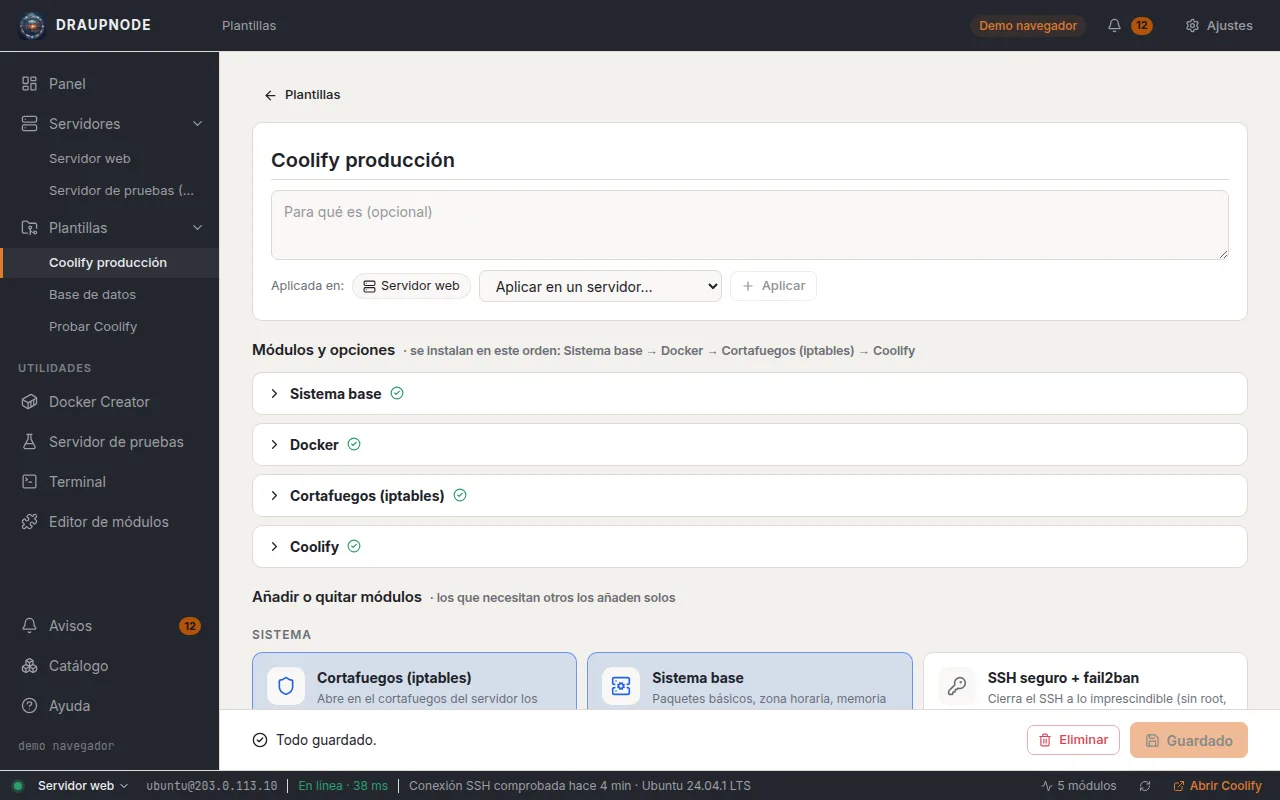
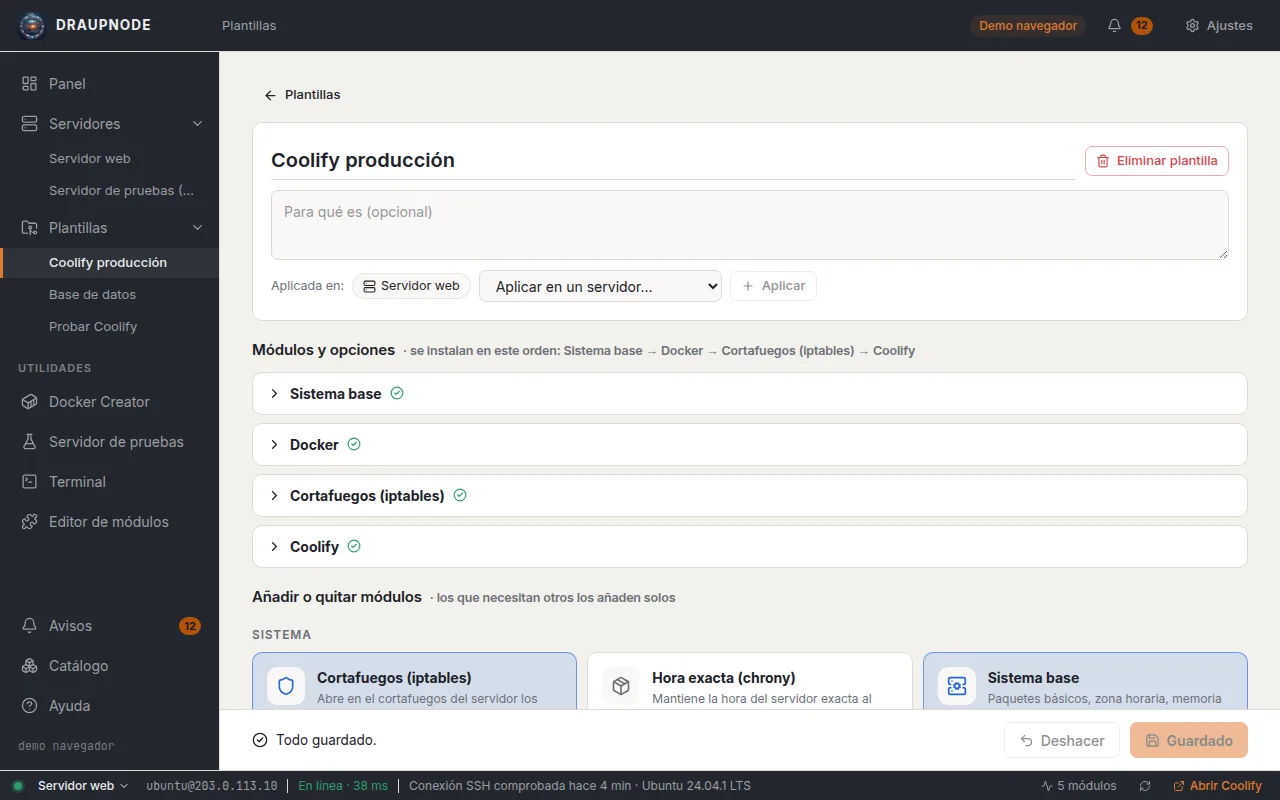
Plantilla: «Eliminar plantilla» junto al nombre y «Deshacer» al lado de Guardar (0.63.1)

Changed region(s): [[0.4375, 0.8125, 1.0, 0.9375], [0.8438, 0.1875, 0.9688, 0.2188]]

diff --git a/frontend/src/views/RecipeEditor.svelte b/frontend/src/views/RecipeEditor.svelte
@@ -4,7 +4,7 @@
   // servidor, no aquí. Al guardar, los servidores que la usan reciben los
   // cambios (sin aplicarlos) y conservan lo suyo.
   import { untrack } from 'svelte'
-  import { ArrowLeft, Save, Trash2, Server as ServerIcon, Plus, TriangleAlert, ChevronDown, ChevronRight, CircleCheck, Sparkles, Check } from '@lucide/svelte'
+  import { ArrowLeft, Save, Trash2, Server as ServerIcon, Plus, TriangleAlert, ChevronDown, ChevronRight, CircleCheck, Sparkles, Check, Undo2 } from '@lucide/svelte'
   import ModuleCard from '../components/ModuleCard.svelte'
   import VarField from '../components/VarField.svelte'
   import { api, errorText, type Module, type ProjectCheck, type Recipe } from '../lib/api'
@@ -16,7 +16,9 @@
   const initial = untrack(() => ui.recipes.find((r) => r.id === id))
   let draft = $state<Recipe>(initial ? JSON.parse(JSON.stringify({ id: initial.id, name: initial.name, notes: initial.notes ?? '', modules: initial.modules })) : { id: '', name: '', notes: '', modules: [] })
   const key = (r: Recipe) => JSON.stringify([r.name.trim(), r.notes ?? '', r.modules])
-  let savedKey = $state(initial ? key(draft) : '')
+  let savedKey = $state(initial ? untrack(() => key(draft)) : '')
+  // Copia de lo último guardado, para «Deshacer».
+  let savedDraft = $state(untrack(() => JSON.stringify(draft)))
   const dirty = $derived(key(draft) !== savedKey)
   let check = $state<ProjectCheck | null>(null)
   let saving = $state(false)
@@ -95,6 +97,7 @@
       draft.id = r.id
       draft.modules = r.modules
       savedKey = key(draft)
+      savedDraft = JSON.stringify($state.snapshot(draft))
       toReview = []
       await refreshProjects()
       if (!id) ui.recipeId = r.id
@@ -106,6 +109,14 @@
     } finally {
       saving = false
     }
+  }
+
+  // Vuelve a lo último guardado (o a la plantilla vacía si aún no se guardó).
+  function undo() {
+    draft = JSON.parse(savedDraft)
+    toReview = []
+    open = {}
+    toast('Cambios deshechos: la plantilla está como la guardaste')
   }
 
   async function remove() {
@@ -142,7 +153,10 @@
 </div>
 
 <div class="top card">
-  <input class="name" bind:value={draft.name} placeholder="Nombre de la plantilla (p. ej. Servidor de copias, Mis apps…)" />
+  <div class="name-row">
+    <input class="name" bind:value={draft.name} placeholder="Nombre de la plantilla (p. ej. Servidor de copias, Mis apps…)" />
+    {#if draft.id}<button class="btn sm danger" onclick={remove} title="Borra esta plantilla (los servidores en los que se aplicó no cambian)"><Trash2 size={14} /> Eliminar plantilla</button>{/if}
+  </div>
   <textarea class="input notes" rows="2" bind:value={draft.notes} placeholder="Para qué es (opcional)"></textarea>
   {#if draft.id}
     <div class="deps">
@@ -228,7 +242,7 @@
       <CircleCheck size={16} /> <span>Todo guardado.</span>
     {/if}
   </div>
-  {#if draft.id}<button class="btn sm danger" onclick={remove}><Trash2 size={14} /> Eliminar</button>{/if}
+  <button class="btn" onclick={undo} disabled={saving || !dirty} title="Quita lo que no has guardado y deja la plantilla como estaba"><Undo2 size={15} /> Deshacer</button>
   <button class="btn primary" onclick={save} disabled={saving || !dirty || !draft.name.trim() || errorCount > 0}><Save size={15} /> {saving ? 'Guardando…' : dirty || !draft.id ? 'Guardar' : 'Guardado'}</button>
 </div>
 
@@ -247,6 +261,8 @@
   @media (max-width: 900px) { .foot { margin: 24px -16px -32px; padding: 10px 16px; bottom: -32px; flex-wrap: wrap; } }
   .bar { display: flex; align-items: center; gap: 8px; margin-bottom: 12px; }
   .top { display: flex; flex-direction: column; gap: 10px; margin-bottom: 14px; }
+  .name-row { display: flex; gap: 10px; align-items: center; }
+  .name-row .name { flex: 1; min-width: 0; }
   .name { font-size: 20px; font-weight: 600; border: 0; border-bottom: 1px solid var(--border); background: none; color: var(--text); padding: 4px 0; outline: none; }
   .name:focus { border-color: var(--accent); }
   .notes { resize: vertical; }

diff --git a/frontend/src/lib/help.ts b/frontend/src/lib/help.ts
@@ -72,8 +72,8 @@ export const HELP: HelpSection[] = [
     intro: 'Una plantilla es un grupo de módulos con sus opciones, sin servidor, para añadirlos de una vez. Al aplicarla a un servidor sus módulos pasan a ser de ese servidor (allí se ve de qué plantilla vino cada uno) y se instalan cuando pulsas Aplicar. Editar una plantilla no cambia los servidores en los que ya se aplicó.',
     steps: [
       { title: 'Lista', text: 'Cada plantilla muestra sus módulos y en qué servidores está (con su estado: sin aplicar, cambios sin aplicar, aplicada, con datos propios). Pulsa un servidor para ir a esa plantilla en él.', img: 'proyectos' },
-      { title: 'Crear o editar una plantilla', text: 'Nombre, para qué es y los módulos (los que necesitan otros los añaden solos). Abre cada módulo para cambiar sus opciones y pulsa «Guardar». Los datos secretos (tokens, claves) no van aquí: se escriben en cada servidor. Si la plantilla ya está en servidores, reciben los cambios (con «cambios sin aplicar») y conservan lo suyo; no se instala nada hasta que pulses Aplicar en cada uno.', img: 'proyecto' },
-      { title: 'Guardar y revisar', text: 'Abajo hay siempre una franja con «Guardar» y «Eliminar». Se pone de color cuando hay cambios sin guardar (en rojo si hay opciones con errores). Al añadir un módulo con opciones, su sección se abre y queda marcada «Nuevo: revisa sus opciones» hasta que pulsas «Valores revisados» o guardas; la franja de abajo te dice cuáles faltan y te lleva a ellos. Son valores predeterminados: al aplicar la plantilla en un servidor, «Configurar y aplicar…» te deja retocarlos otra vez.', img: 'plantilla-cambios' },
+      { title: 'Crear o editar una plantilla', text: 'Nombre, para qué es y los módulos (los que necesitan otros los añaden solos). Abre cada módulo para cambiar sus opciones y pulsa «Guardar». «Eliminar plantilla» está arriba, junto al nombre. Los datos secretos (tokens, claves) no van aquí: se escriben en cada servidor. Si la plantilla ya está en servidores, reciben los cambios (con «cambios sin aplicar») y conservan lo suyo; no se instala nada hasta que pulses Aplicar en cada uno.', img: 'proyecto' },
+      { title: 'Guardar y revisar', text: 'Abajo hay siempre una franja con «Deshacer» (quita lo que no has guardado y deja la plantilla como estaba) y «Guardar». Se pone de color cuando hay cambios sin guardar (en rojo si hay opciones con errores). Al añadir un módulo con opciones, su sección se abre y queda marcada «Nuevo: revisa sus opciones» hasta que pulsas «Valores revisados» o guardas; la franja de abajo te dice cuáles faltan y te lleva a ellos. Son valores predeterminados: al aplicar la plantilla en un servidor, «Configurar y aplicar…» te deja retocarlos otra vez.', img: 'plantilla-cambios' },
       { title: 'Aplicar en un servidor', text: 'Desde la plantilla («Aplicar en un servidor…») o desde la ficha del servidor → Módulos → «Aplicar plantilla». Añade sus módulos al servidor (los que ya tenía se quedan como estaban) y no instala nada hasta que pulses Aplicar allí. Desde un servidor también puedes hacer lo contrario: «Guardar módulos en una plantilla…» lleva sus módulos a una plantilla existente o crea una nueva.' },
       { title: 'Se guarda solo', text: 'En los módulos de un servidor, cada cambio se guarda automáticamente («Cambios guardados», arriba a la derecha) y en el sitio de «Guardar» aparece «Eliminar». Si hay campos en rojo, no se guarda hasta corregirlos.' },
       { title: 'Configurar y aplicar', text: 'Con módulos marcados aparece «Configurar y aplicar…»: se abre una ventana por cada módulo nuevo que tenga opciones (Anterior / Siguiente) y al final un resumen con «Simular» y «Finalizar y aplicar». Arriba de la ventana ves siempre el servidor y la plantilla.' },

diff --git a/internal/app/app.go b/internal/app/app.go
@@ -22,7 +22,7 @@ import (
 )
 
 // Version de la aplicación.
-const Version = "0.63.0"
+const Version = "0.63.1"
 
 // Prefijos que la interfaz reconoce en los errores para abrir el diálogo
 // de la bóveda (crear o desbloquear) y reintentar.

diff --git a/docs/HISTORIAL.md b/docs/HISTORIAL.md
@@ -1199,3 +1199,9 @@ algo, conectarse…), volver a aplicar (0 cambios), desinstalar con sus datos y 
   por su shell de Django); OpenBao 2 no corre como root y ya no admite almacenamiento «file»; Vikunja exige su
   dirección si CORS está activo (desactivado: web y API van juntas); `kubectl` de k3s no lee ~/.kube/config
   (KUBECONFIG en /etc/profile.d).
+
+## 2026-11-25 · 0.63.1 · Plantilla: «Eliminar» arriba y «Deshacer» abajo
+
+- Editor de plantilla: «Eliminar plantilla» pasa al recuadro de arriba, junto al nombre y las notas (borra la plantilla entera, no tiene que ver con los cambios).
+- En la franja de abajo, junto a «Guardar», está ahora «Deshacer»: quita lo que no se ha guardado (módulos añadidos o quitados, opciones, nombre, notas) y deja la plantilla como estaba. Solo se activa cuando hay cambios.
+- Ayuda y capturas `proyecto` y `plantilla-cambios` actualizadas.
